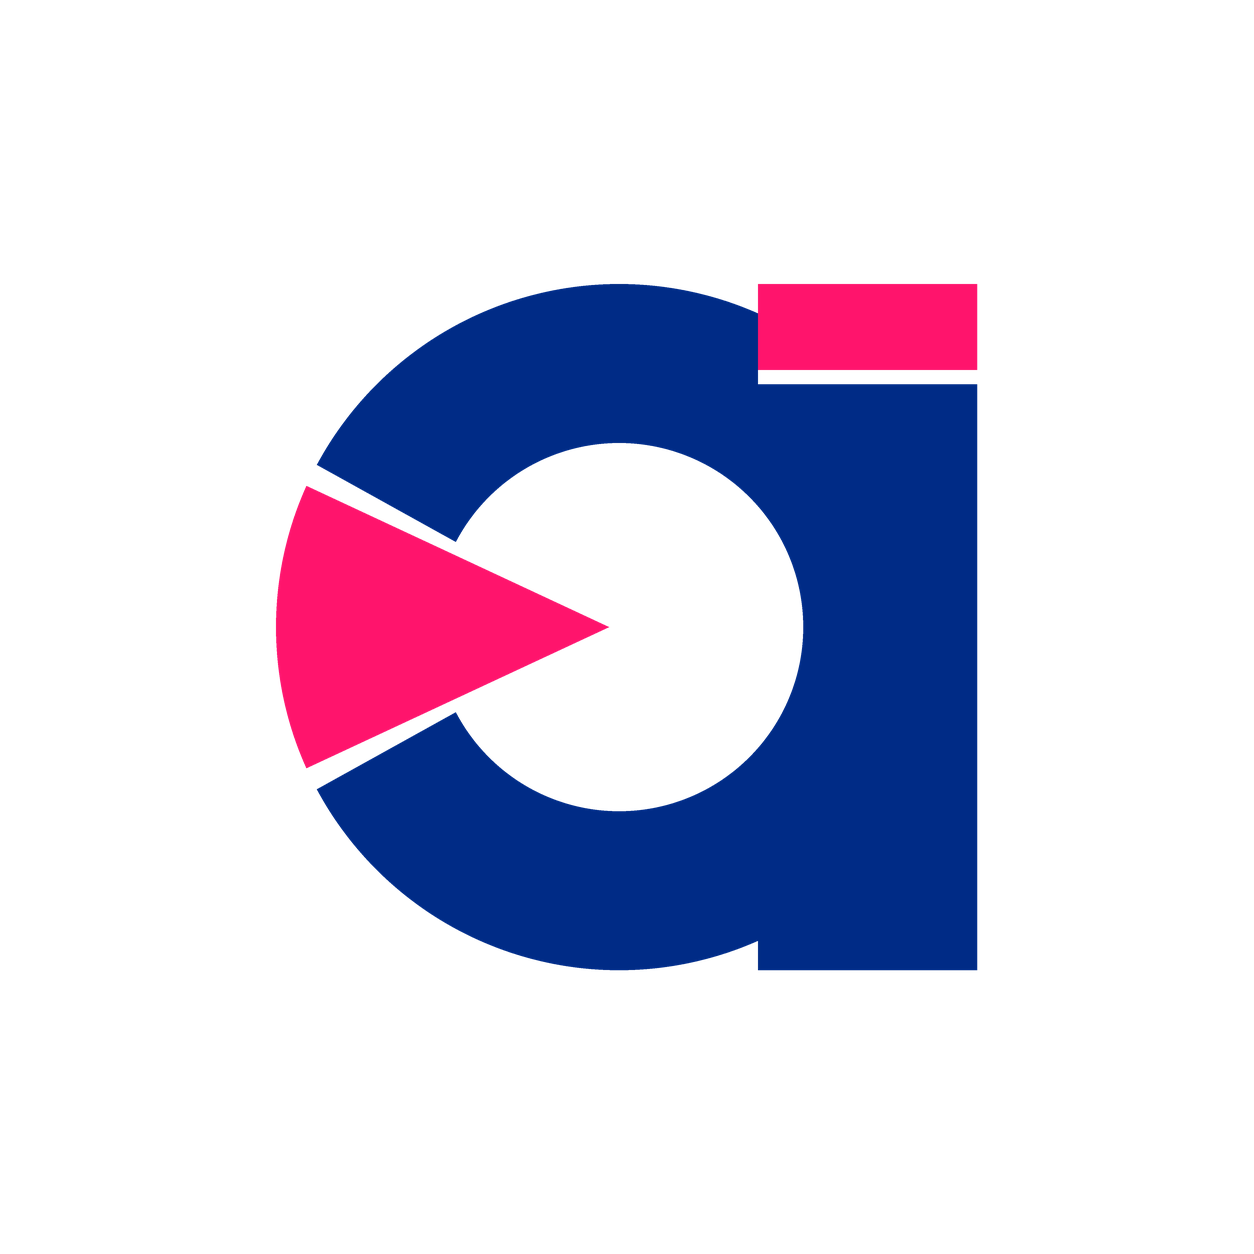
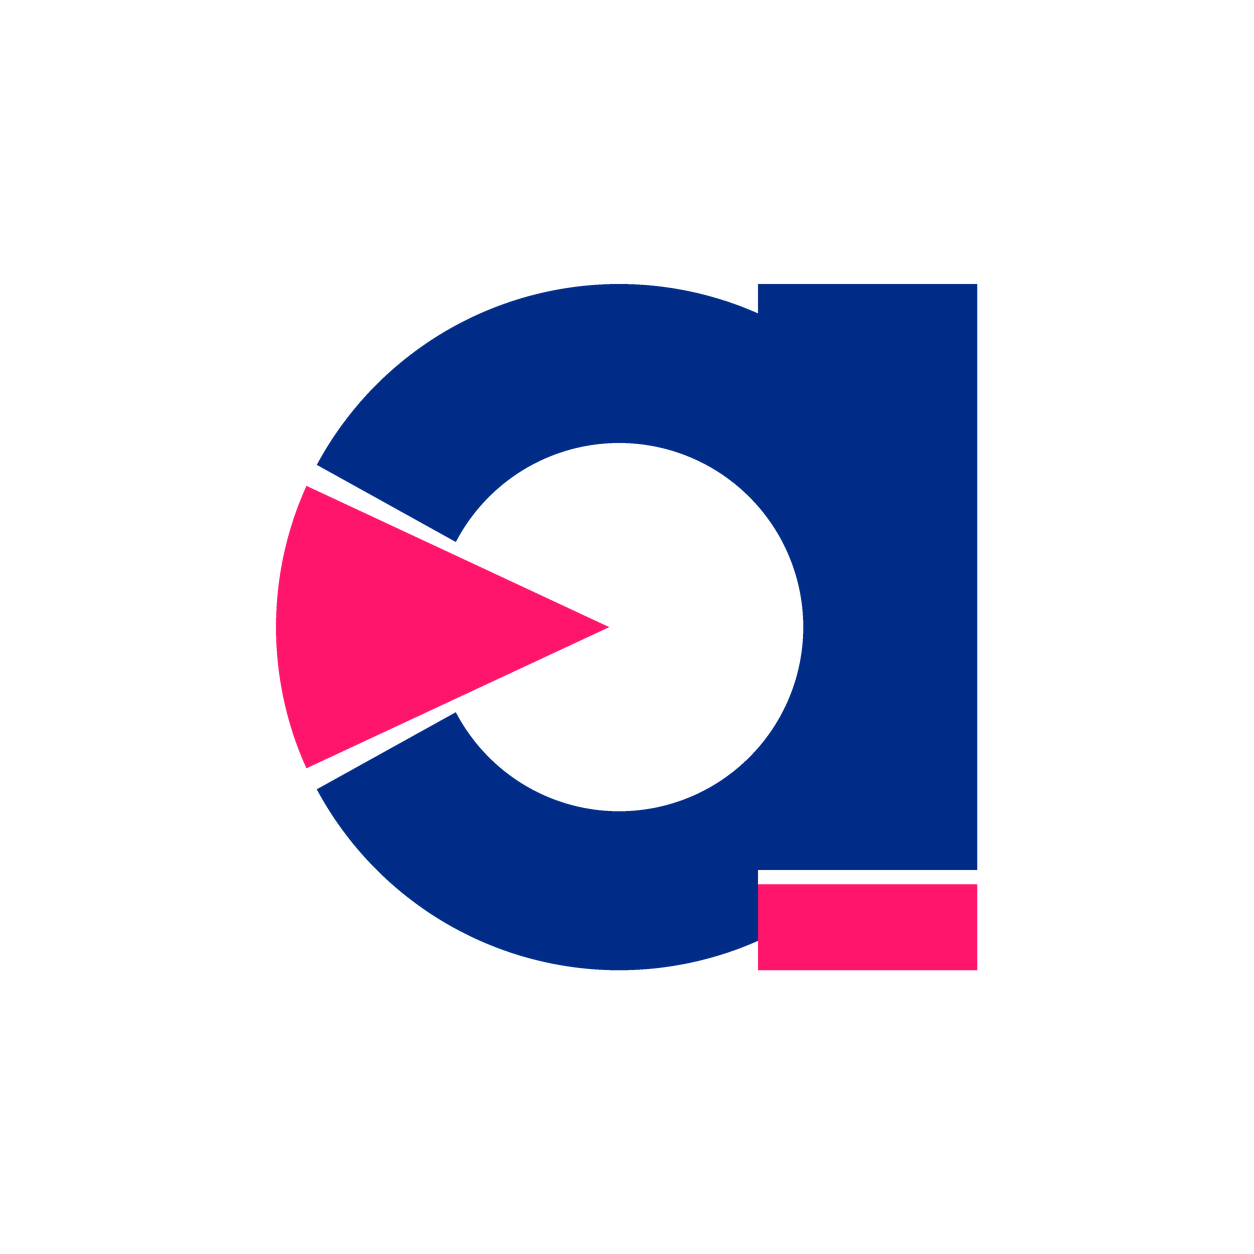
Afrippa mark: the pink bar at the foot of the a's stem (draft)

Changed region(s): [[0.5909, 0.6842, 0.7775, 0.7775], [0.5909, 0.2177, 0.7775, 0.311]]

diff --git a/scripts/afrippa-mark-draft.py b/scripts/afrippa-mark-draft.py
@@ -1,8 +1,8 @@
 """
 Draft Afrippa marks (a lowercase "a") drawn from BitoCard's "b" mark's own geometry and colours (assets/logo.png):
-the same bowl, counter, pink arrow wedge and its cut lines, and the pink cap, but with the stem on the right at the
+the same bowl, counter, pink arrow wedge and its cut lines, and the pink bar, but with the stem on the right at the
 bowl's height, so nothing rises above the bowl and it reads as a small "a", never a "d".
-  C (mark-c-single.png): a single-storey "a": the stem from the bowl's top to the baseline, its top the pink cap.
+  C (mark-c-single.png): a single-storey "a": the stem from the bowl's top to the baseline, the pink bar its foot.
 Drafts only: the approved mark is redrawn as a vector. Run from the repository root:
 python scripts/afrippa-mark-draft.py
 """
@@ -73,9 +73,9 @@ def single():
     sx = cx + R - STEM + 15            # the stem's left edge, as far right as the b's stem was left
     d.rectangle([P(sx), P(cy - R), P(sx + STEM), P(cy + R)], fill=NAVY)
     d.ellipse([P(cx - r), P(cy - r), P(cx + r), P(cy + r)], fill=(0, 0, 0, 0))
-    # The cap: the stem's top, pink, with the white gap under it running across the stem.
-    d.rectangle([P(sx), P(cy - R), P(sx + STEM), P(cy - R + CAP)], fill=PINK)
-    d.rectangle([P(sx), P(cy - R + CAP), P(sx + STEM), P(cy - R + CAP + GAP)], fill=(0, 0, 0, 0))
+    # The pink bar: the foot of the stem, on the baseline, with the white gap above it running across the stem.
+    d.rectangle([P(sx), P(cy + R - CAP), P(sx + STEM), P(cy + R)], fill=PINK)
+    d.rectangle([P(sx), P(cy + R - CAP - GAP), P(sx + STEM), P(cy + R - CAP)], fill=(0, 0, 0, 0))
     return finish(arrow(im, cx, cy), "mark-c-single.png")
 
 

diff --git a/docs/CRYPTO_SPINOFF_PLAN.md b/docs/CRYPTO_SPINOFF_PLAN.md
@@ -22,7 +22,7 @@ Decided by the owner on 27 October 2026. This plan replaces `docs/BITOCARD_CRYPT
 
 ## Brand (the owner, 27 October 2026)
 
-- **The mark** is BitoCard's, with the "b" recreated as a small (lowercase) **"a"** that keeps the pink arrow and the pink cap: the b's bowl, counter, arrow and cuts at the same sizes, the arrow on the left pointing forward into the counter, and the stem on the right running from the bowl's top to the baseline, its top the pink cap, so nothing rises above the bowl and it never reads as a "d" (the owner, 27 October 2026). Draft: `assets/afrippa/drafts/mark-c-single.png`, with `mark-options.png` showing it on white, on navy (navy turned white) and at icon sizes; drawn by `scripts/afrippa-mark-draft.py`. Once approved it is **redrawn as a vector** (SVG) by a designer, with its two colours as theme slots (below), and the master kept as `assets/afrippa/logo.svg`; the generated icons, favicons and manifest images come from it as BitoCard's come from `scripts/brand-assets.py`.
+- **The mark** is BitoCard's, with the "b" recreated as a small (lowercase) **"a"** that keeps the pink arrow and the pink bar: the b's bowl, counter, arrow and cuts at the same sizes, the arrow on the left pointing forward into the counter, and the stem on the right running from the bowl's top to the baseline, with the pink bar (the b's cap) moved to its foot on the baseline, below a thin white gap, so nothing rises above the bowl and it never reads as a "d" (the owner, 27 October 2026). Draft: `assets/afrippa/drafts/mark-c-single.png`, with `mark-options.png` showing it on white, on navy (navy turned white) and at icon sizes; drawn by `scripts/afrippa-mark-draft.py`. Once approved it is **redrawn as a vector** (SVG) by a designer, with its two colours as theme slots (below), and the master kept as `assets/afrippa/logo.svg`; the generated icons, favicons and manifest images come from it as BitoCard's come from `scripts/brand-assets.py`.
 - **The wordmark:** "Afrippa" beside the mark, as BitoCard's lockup (proposed: "Afri" in the ink colour, "ppa" in the accent, as "Bito" and "card"). The name stands alone; its origin is never spelled out in copy.
 - **The theme** is BitoCard's (navy and pink, Inter, the same components and white space) by default, and **admins choose the colour theme in Afrippa's admin**: a few ready-made themes (BitoCard's navy and pink first, the default) and custom colours (primary, accent, ink, page), each checked for readable contrast before it is saved, previewed before it goes live, and audited. The site reads it from the API (cached) and applies it as the colour variables the components already use (as reseller stores' themes do), so every page, the mark and the emails follow it. The admin app and verify.afrippa.com follow the same theme.
 
